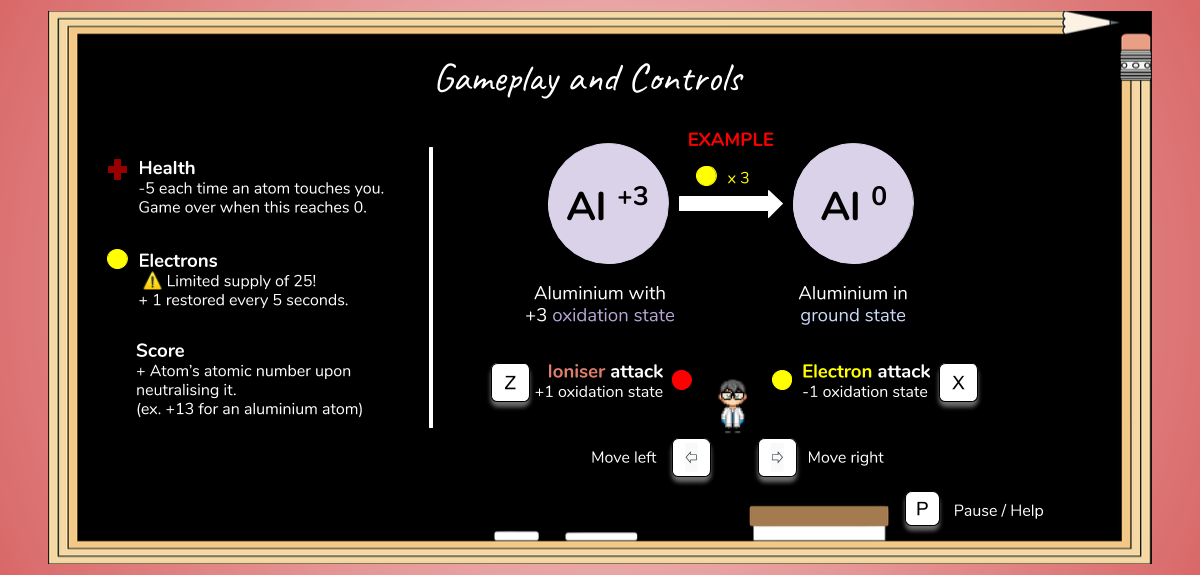
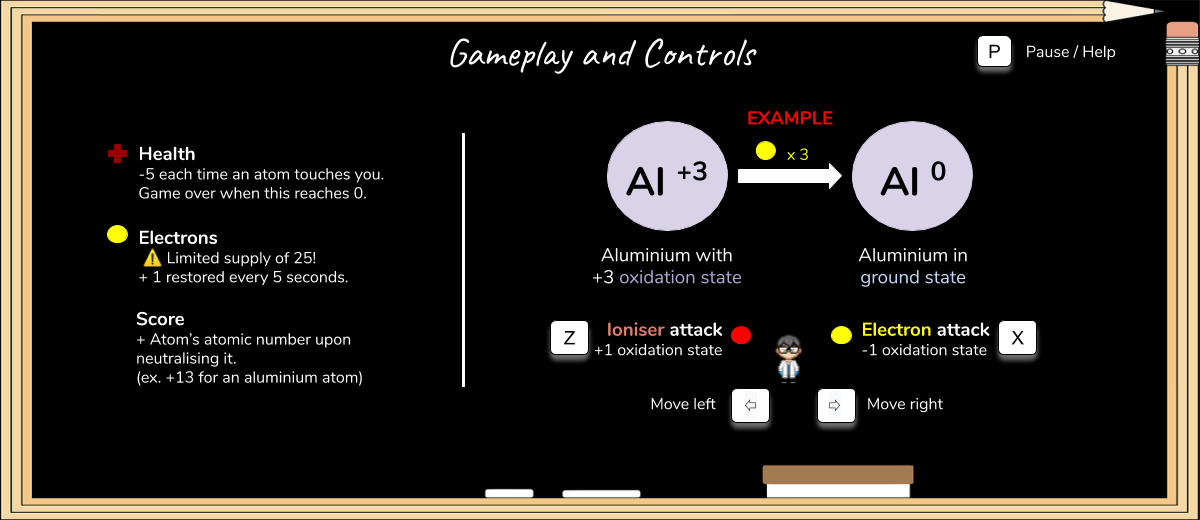
Resize canvas

diff --git a/src/scripts/slideshow.js b/src/scripts/slideshow.js
@@ -43,8 +43,10 @@ export default class Slideshow {
 
   drawInstructions() {
     this.ctx.drawImage(this.instructions, 0, 0);
-    this.allowGameStart = true;
-    console.log(`Game can be started: ${this.allowGameStart}`);
+    if (this.allowGameStart === false) {
+      this.allowGameStart = true;
+      console.log(`Game can be started: ${this.allowGameStart}`);
+    }
   }
 
   drawSlide() {
@@ -67,7 +69,7 @@ export default class Slideshow {
 
   drawNavbar() {
     this.ctx.beginPath();
-      this.ctx.rect(0, 570, 1200, 30);
+      this.ctx.rect(0, 520, 1200, 30);
       this.ctx.fillStyle = "black";
     this.ctx.fill();
 
@@ -91,35 +93,37 @@ export default class Slideshow {
 
   drawNavBarOne() {
     this.ctx.beginPath();
-      this.ctx.rect(0, 570, 400, 30);
-      this.ctx.moveTo(400, 570);
-      this.ctx.lineTo(425, 585);
-      this.ctx.lineTo(400, 600);
+      this.ctx.moveTo(0, 520);
+      this.ctx.lineTo(400, 520);
+      this.ctx.lineTo(425, 535);
+      this.ctx.lineTo(400, 550);
+      this.ctx.lineTo(0, 550);
+      this.ctx.lineTo(0, 520);
       this.ctx.fillStyle = "#e60909";
     this.ctx.fill();
   }
 
   drawNavBarTwo() {
     this.ctx.beginPath();
-      this.ctx.moveTo(400, 570);
-      this.ctx.lineTo(800, 570);
-      this.ctx.lineTo(825, 585);
-      this.ctx.lineTo(800, 600);
-      this.ctx.lineTo(400, 600);
-      this.ctx.lineTo(425, 585);
-      this.ctx.lineTo(400, 570);
+      this.ctx.moveTo(400, 520);
+      this.ctx.lineTo(800, 520);
+      this.ctx.lineTo(825, 535);
+      this.ctx.lineTo(800, 550);
+      this.ctx.lineTo(400, 550);
+      this.ctx.lineTo(425, 535);
+      this.ctx.lineTo(400, 520);
       this.ctx.fillStyle = "#e6e609";
     this.ctx.fill();
   }
 
   drawNavBarThree() {
     this.ctx.beginPath();
-      this.ctx.moveTo(800, 570);
-      this.ctx.lineTo(1200, 570);
-      this.ctx.lineTo(1200, 600);
-      this.ctx.lineTo(800, 600);
-      this.ctx.lineTo(825, 585);      
-      this.ctx.lineTo(800, 570);      
+      this.ctx.moveTo(800, 520);
+      this.ctx.lineTo(1200, 520);
+      this.ctx.lineTo(1200, 550);
+      this.ctx.lineTo(800, 550);
+      this.ctx.lineTo(825, 535);      
+      this.ctx.lineTo(800, 520);      
       this.ctx.fillStyle = "#26e609";
     this.ctx.fill();
   }

diff --git a/dist/main.css b/dist/main.css
@@ -58,7 +58,7 @@ body {
 
 #navbar {
   width: calc(100% - 20px);
-  height: 20px;
+  height: 50px;
   box-sizing: content-box;
   display: flex;
   justify-content: space-between;
@@ -101,84 +101,7 @@ body {
   align-items: center;
 }
 
-/* #game-container-contents {
-  width: 1200px;
-  height: 600px;
-} */
-
-/* .slideshow-container {
-  width: inherit;
-  margin: auto;
-}
-
-.about-slide {
-  display: none;
-}
-
-.about-slide img {
-  width: 1200px;
-  height: 575px;
-}
-
-.slideshow-navigation {
-  margin-top: -5px;
-  height: 30px;
-  text-align:center;
-  vertical-align: middle;
-  background: black;
-  border: none;
-}
-
-.prev, .next {
-  cursor: pointer;
-  width: 30px;
-  height: 30px;
-  color: beige;
-  font-weight: bold;
-  font-size: 30px;
-  transition: 0.6s ease;
-  border-radius: 0 3px 3px 0;
-  user-select: none;
-}
-
-.next {
-  right: 50%;
-  border-radius: 3px 0 0 3px;
-}
-
-.dot {
-  cursor: pointer;
-  height: 15px;
-  width: 15px;
-  margin: 0 2px;
-  background-color: white;
-  border-radius: 50%;
-  display: inline-block;
-  transition: background-color 0.6s ease;
-}
-
-.active, .dot:hover {
-  background-color: red;
-}
-
-.fade {
-  -webkit-animation-name: fade;
-  -webkit-animation-duration: 1.5s;
-  animation-name: fade;
-  animation-duration: 1.5s;
-}
-
-@-webkit-keyframes fade {
-  from {opacity: .4}
-  to {opacity: 1}
-}
-
-@keyframes fade {
-  from {opacity: .4}
-  to {opacity: 1}
-} */
-
 #canvas-container {
   width: 1200px;
-  height: 600px;
+  height: 550px;
 }

diff --git a/src/index.js b/src/index.js
@@ -5,7 +5,7 @@ window.addEventListener('DOMContentLoaded', () => {
   const ctx = canvas.getContext('2d');
 
   canvas.width = '1200';
-  canvas.height = '600';
+  canvas.height = '550';
   
   // Instantiate a new game
   const game = new Game(canvas, ctx);

diff --git a/src/scripts/game.js b/src/scripts/game.js
@@ -59,7 +59,6 @@ export default class Game {
     this.control.addKeyDownInGameListener();
     this.control.addKeyUpInGameListener();
     this.togglePause();
-    this.renderGame();
   }
 
   gameOver() {
